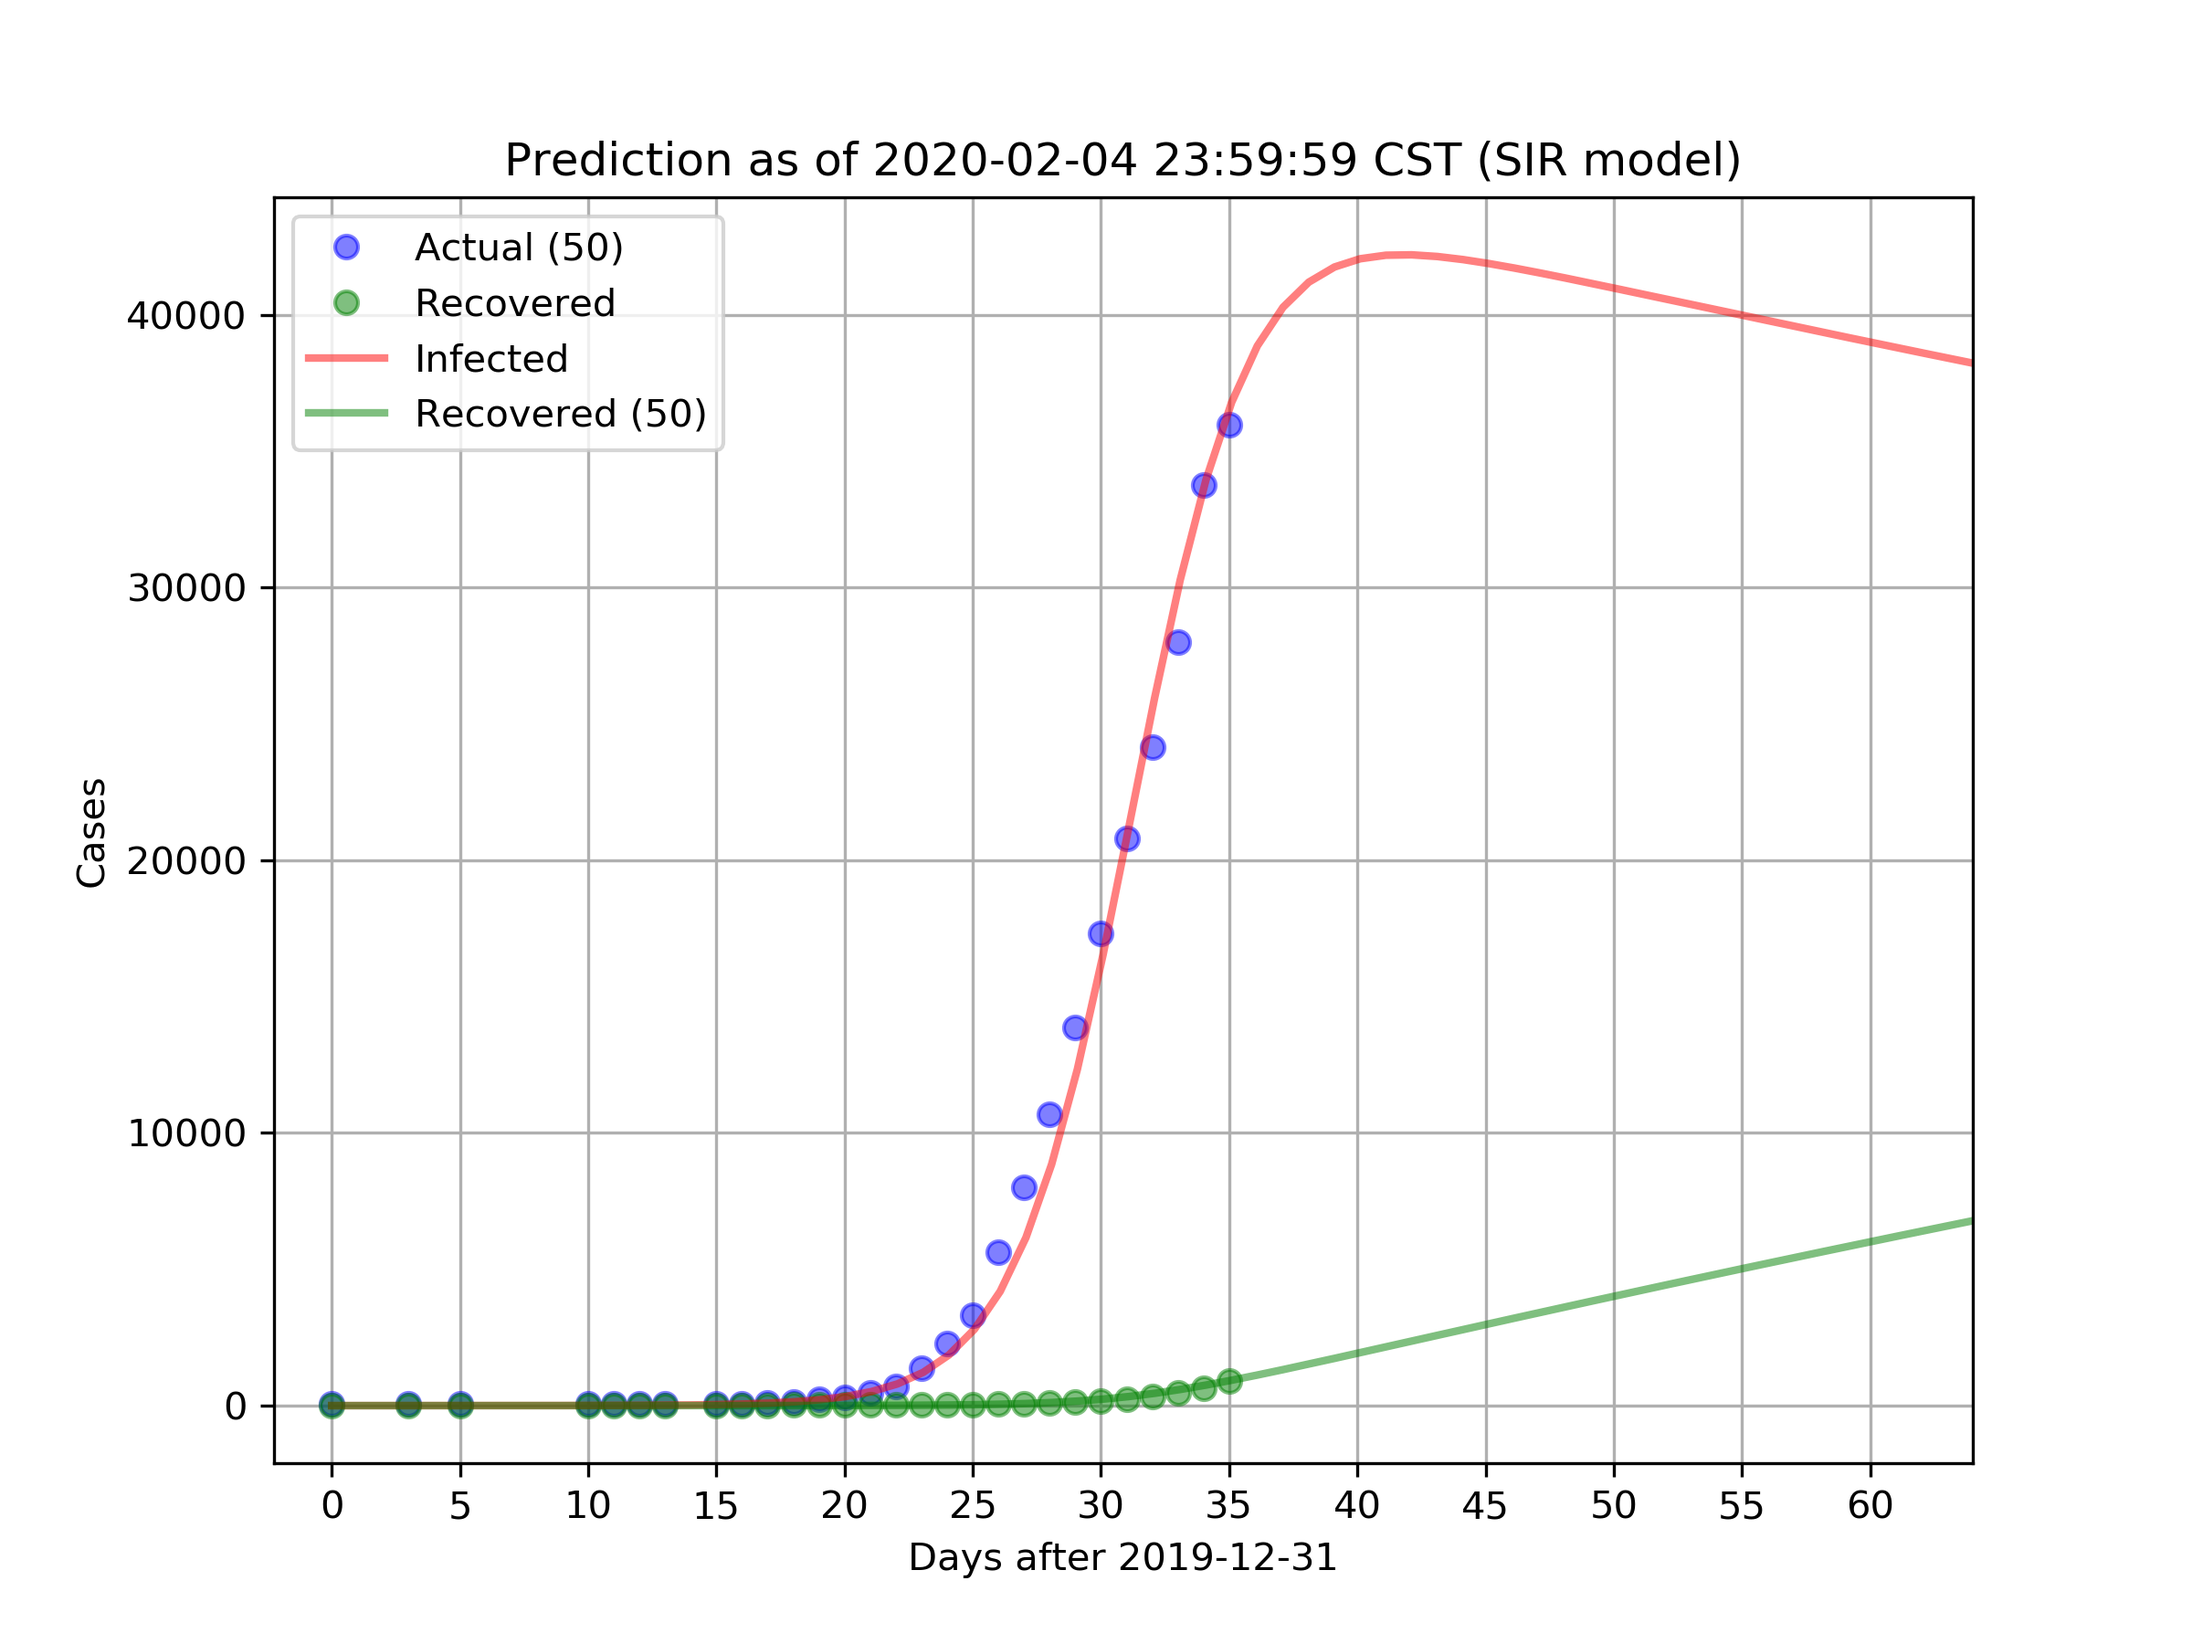
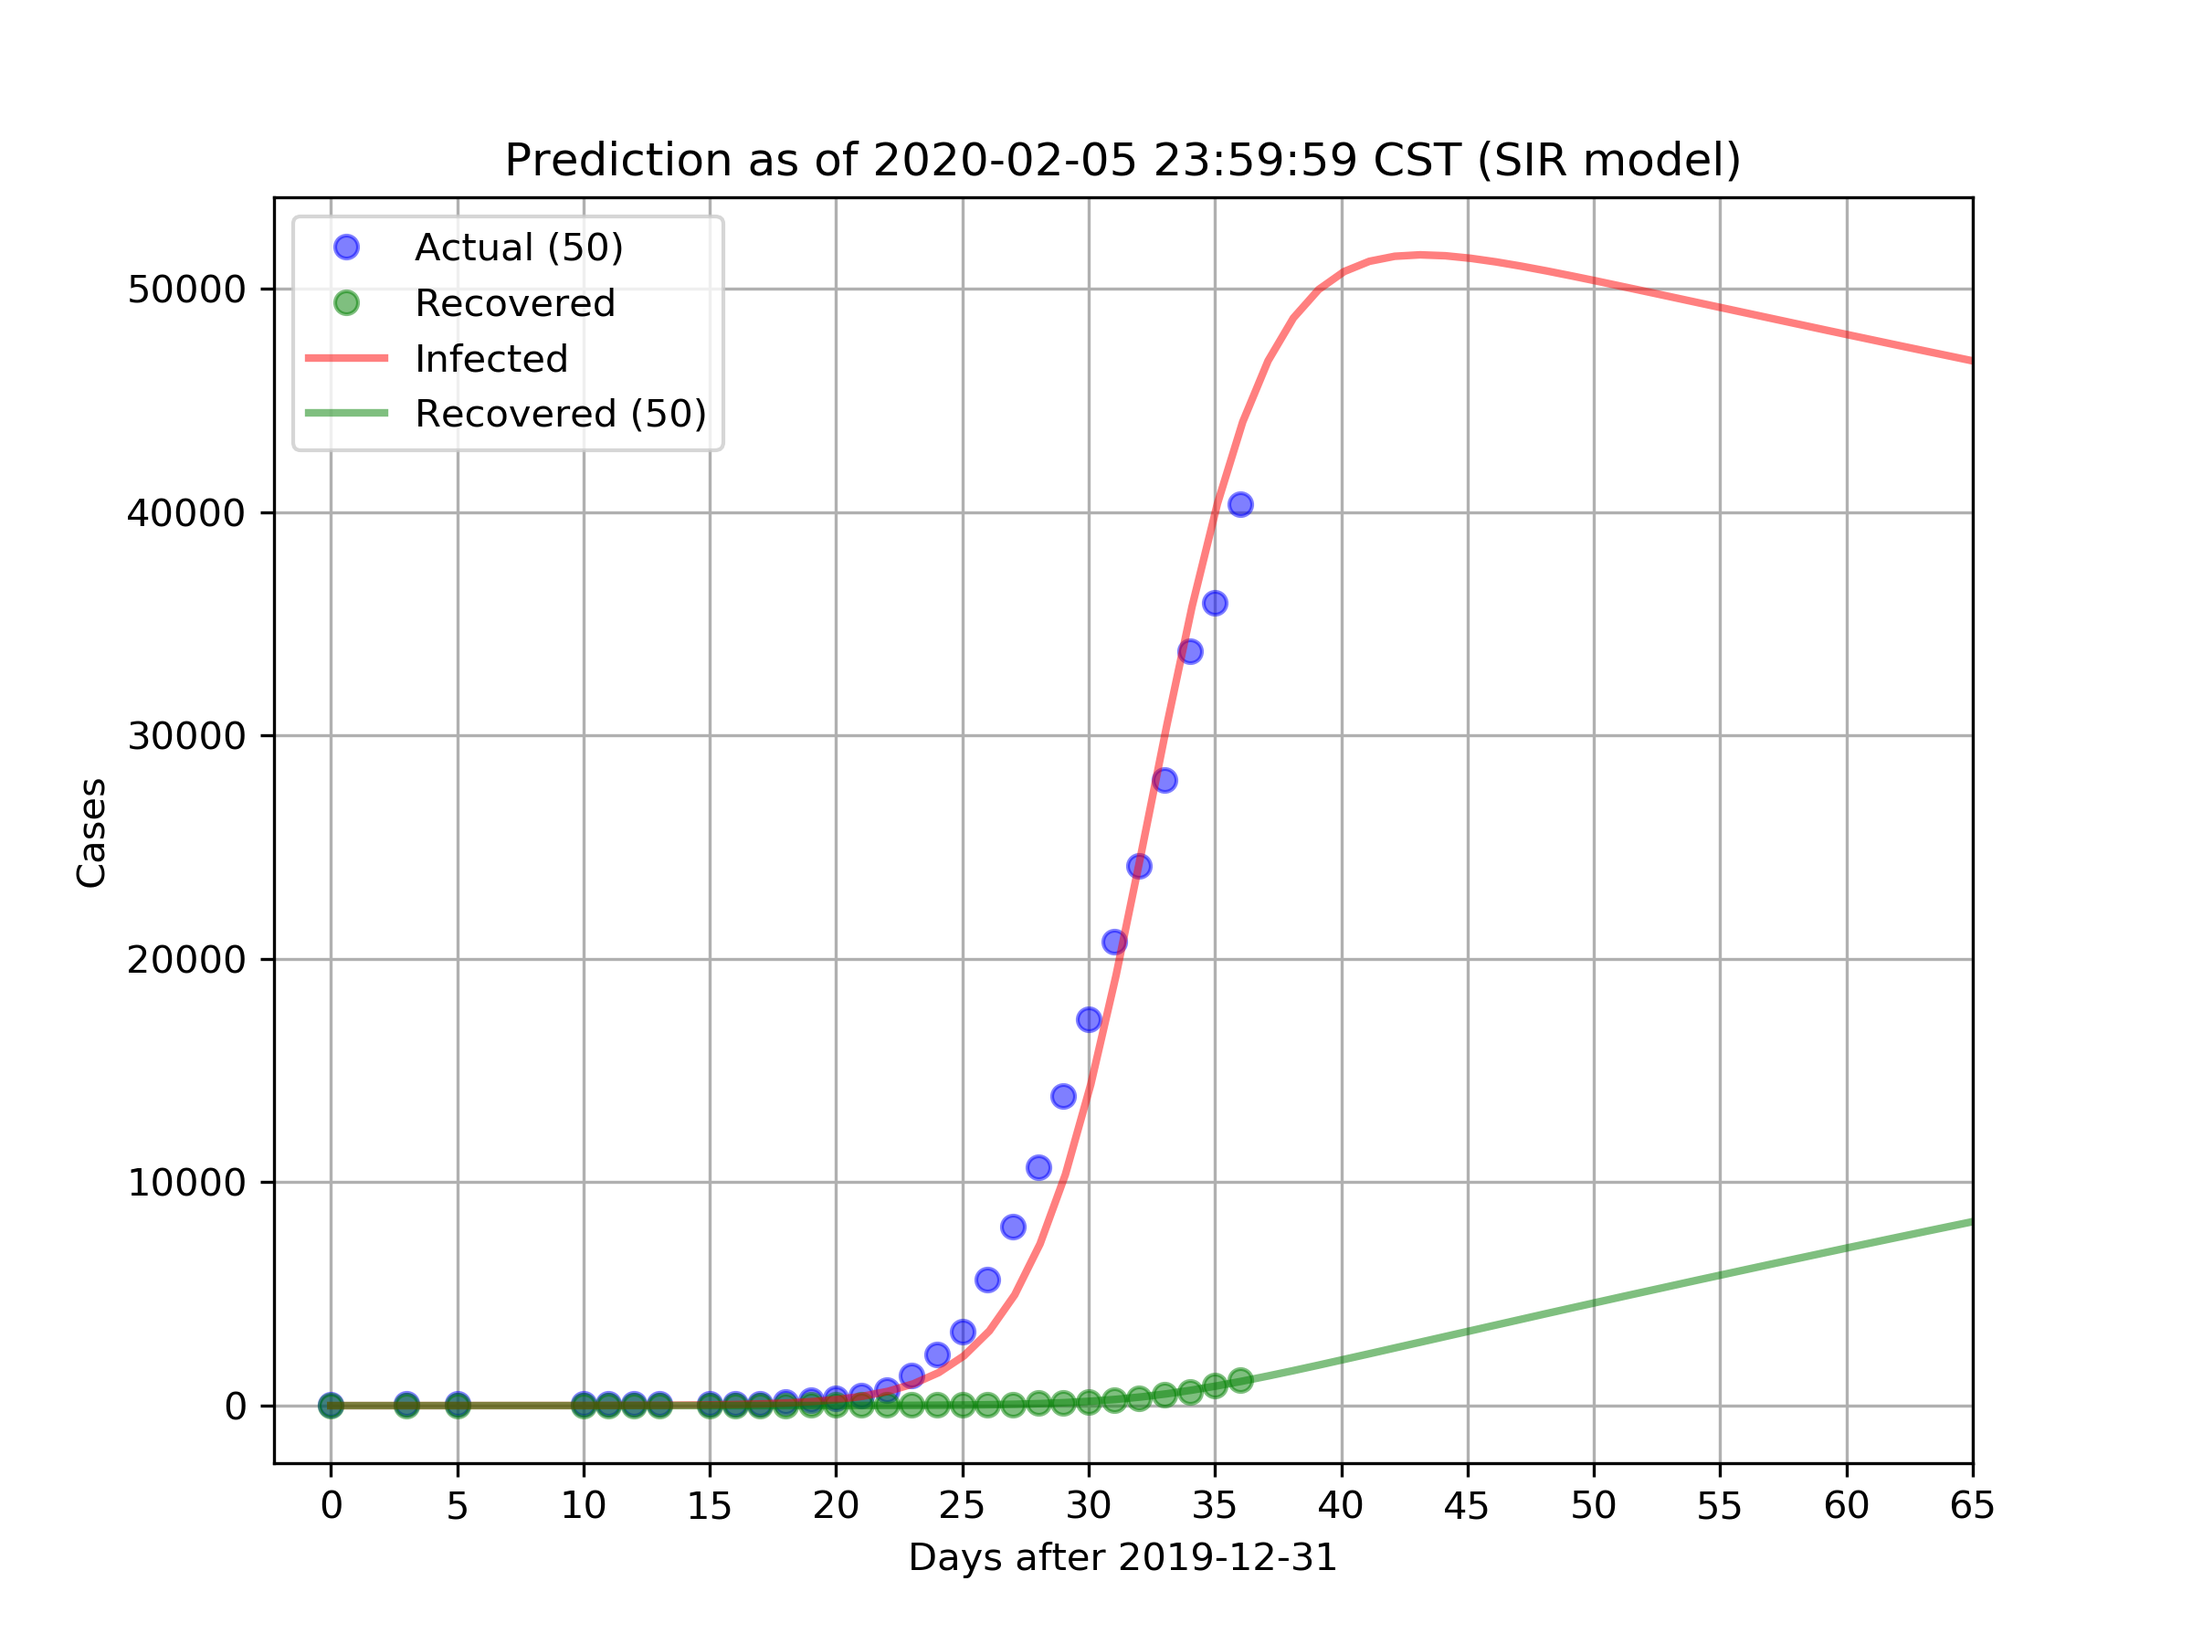
update 2020-02-05

diff --git a/2019_nCoV_SIR.py b/2019_nCoV_SIR.py
@@ -20,13 +20,13 @@ Y_frame = info_frame.drop(['Date CST'], axis=1)
 Ys = Y_frame.to_numpy().transpose()
 
 # Total population, N.
-N = 45000000
+N = 55000000
 # Initial number of infected and recovered individuals, I0 and R0.
 I0, R0 = 55, 0
 # Everyone else, S0, is susceptible to infection initially.
 S0 = N - I0 - R0
 # Contact rate, beta, and mean recovery rate, gamma, (in 1/days).
-beta, gamma = 0.44, 5e-3
+beta, gamma = 0.43, 5e-3
 # A grid of time points (in days)
 t = np.linspace(0, 365, 365)
 
@@ -75,4 +75,5 @@ def graph():
     plt.show()
 
 
+graph()
 graph()

diff --git a/2019_nCoV.py b/2019_nCoV.py
@@ -66,7 +66,7 @@ def trainModel(model, X, y):
 
         # get loss for the predicted output
         # loss = criterion(outputs, labels)
-        loss = torch.mean(inputs * ((outputs - labels) ** 2))
+        loss = torch.mean((inputs + 1) * ((outputs - labels) ** 2))
         # print(loss)
         # get gradients w.r.t to parameters
         loss.backward()
